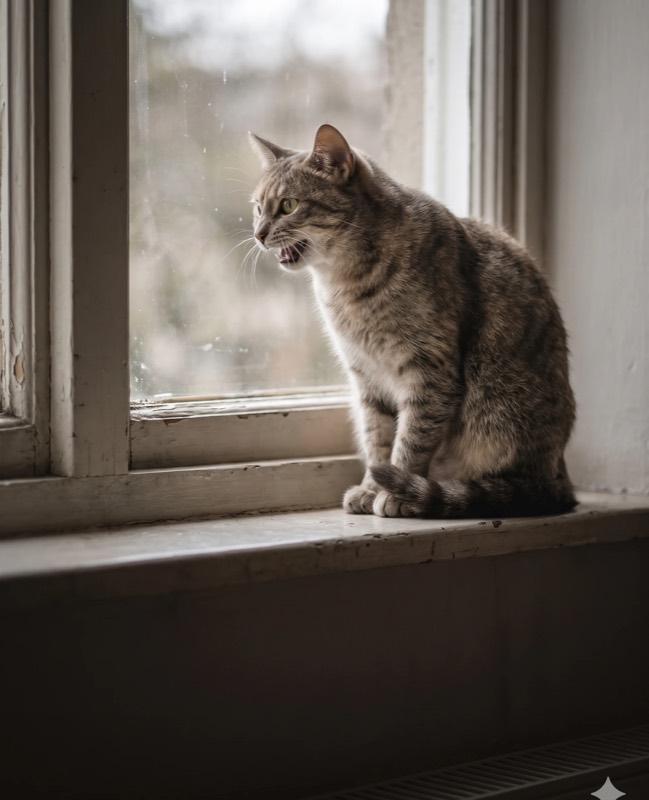
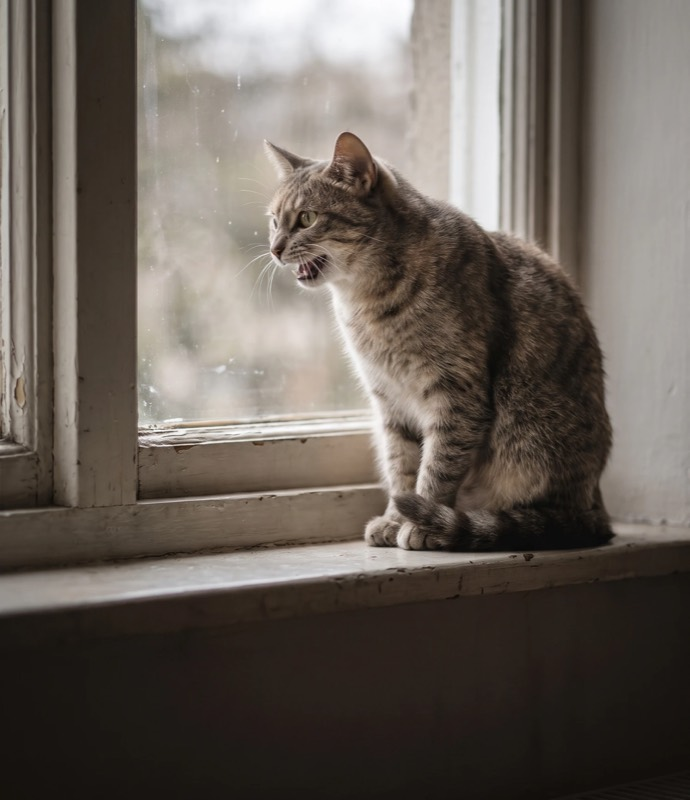
Trim the generator's watermark off every generated image
All seven images that came through the drop folder carried a four-pointed sparkle
burned into the bottom-right corner — the generator's own mark, added despite the
prompt asking for no watermarks. They are gone.

Handled in the pipeline rather than as a one-off, because every future batch from
that tool will have it: install_local.py now crops TRIM_BOTTOM (6%) off the bottom
of every generated file before downsampling. The strip is free — the prompt docs
already keep the subject in the upper two thirds and the lower third plain,
because the headword prints over it, so this takes a band the layout was going to
cover anyway.

Trimming unconditionally rather than detecting per image is deliberate. A
brightness threshold looked like the careful option and was wrong both ways: it
missed the mark on five of the seven images whose corner happened to be light,
and flagged two that were clean. The eye caught what it could not. A detector
that can be wrong is worse here than a crop that cannot.

Re-cropped from the 1493x1840 originals rather than the installed copies, so the
seven are now sharper than before — 690x800 where they were 649x800, since the
crop happens before the downsample instead of after it.

The three images pasted in directly are clean and were left alone.

diff --git a/tools/fetch_assets/install_local.py b/tools/fetch_assets/install_local.py
@@ -12,11 +12,24 @@ them its own way.
 
     python3 -I install_local.py pets ~/Downloads/pets-images "GPT Image"
 """
-import json, os, re, subprocess, sys, datetime
+import json, os, re, subprocess, sys, tempfile, datetime
 
 HERE = os.path.dirname(os.path.abspath(__file__))
 ROOT = os.path.abspath(os.path.join(HERE, "..", ".."))
 EXTS = (".webp", ".png", ".jpg", ".jpeg", ".heic", ".tif", ".tiff")
+
+# Generators stamp their own mark into the bottom-right corner. Measured on this
+# tool's output: about 25px tall at the very bottom edge of an 800px-high render,
+# so 6% clears it with roughly twice the margin it needs at any source size.
+#
+# Trimming the bottom costs nothing here on purpose: the prompt docs put the subject
+# in the upper two thirds and keep the lower third plain, because the headword prints
+# over it. So this takes the strip the layout was already going to cover.
+#
+# Applied to every generated file, clean or not — a per-image check is a detector that
+# can be wrong, and mine was: a brightness threshold missed the mark on five of seven
+# images whose corner happened to be light, and flagged two that were clean.
+TRIM_BOTTOM = 0.06
 
 def slug(term):
     return re.sub(r"[^a-z0-9]+", "-", term.lower()).strip("-")
@@ -48,14 +61,23 @@ def main():
             continue
         name = f"{book}-{s}"
         dest = os.path.join(out_dir, f"{name}.jpg")
+        src = os.path.join(folder, f)
+        # Crop first, downsample second: trimming after the resize would throw away
+        # detail we had and then crop what is left.
+        cropped = os.path.join(tempfile.gettempdir(), f"{name}-trim.png")
+        subprocess.run(["ffmpeg", "-hide_banner", "-loglevel", "error", "-y", "-i", src,
+                        "-vf", f"crop=iw:ih*{1 - TRIM_BOTTOM}:0:0", cropped],
+                       check=True, capture_output=True, timeout=180)
         # 800px long edge, q72 — the Picture Book's format, what check_assets enforces.
         subprocess.run(["sips", "-s", "format", "jpeg", "-s", "formatOptions", "72",
-                        "-Z", "800", os.path.join(folder, f), "--out", dest],
+                        "-Z", "800", cropped, "--out", dest],
                        check=True, capture_output=True, timeout=120)
+        os.remove(cropped)
         by_slug[s]["image"] = name
         record[by_slug[s]["term"]] = {"file": f"{name}.jpg", "model": model,
                                       "made": datetime.date.today().isoformat(),
-                                      "source_file": f}
+                                      "source_file": f,
+                                      "trimmed": f"{int(TRIM_BOTTOM*100)}% off the bottom"}
         done += 1
         print(f"  {by_slug[s]['term']:20} {os.path.getsize(dest)/1e3:6.0f} KB  {name}.jpg")
 

diff --git a/tools/fetch_assets/README.md b/tools/fetch_assets/README.md
@@ -35,6 +35,17 @@ sh ../check_assets.sh
   (`bark` matched a 1945 newsreel — bark as in ship). `api()` now backs off, and a
   run that had any failure says so and refuses to call its number a measurement.
 
+- **Generators stamp their own watermark.** This one puts a four-pointed sparkle in
+  the bottom-right corner of every render, whatever the prompt says. `install_local.py`
+  trims `TRIM_BOTTOM` (6%) off the bottom of every generated file before downsampling,
+  which clears it with about twice the margin it needs. The strip costs nothing: the
+  prompt docs already keep the subject in the upper two thirds because the headword
+  prints over the bottom.
+- **Do not detect the watermark per image.** A brightness threshold looked like the
+  careful option and was wrong in both directions — it missed the mark on five of seven
+  images whose corner happened to be light, and flagged two that were clean. Trimming
+  unconditionally is both simpler and correct.
+
 ## Knobs
 
 - `FREE_CATEGORIES` — Commons licence categories searched. Adding one costs a round

diff --git a/Docs/06_Misc/PETS_IMAGE_PROMPTS.md b/Docs/06_Misc/PETS_IMAGE_PROMPTS.md
@@ -56,6 +56,7 @@ shut and its posture is neutral, the photograph has failed.
 | Minimum size | 1024 × 1365 |
 | Format to save | JPEG or PNG — I downsample to 800px long edge, q72 |
 | File naming | exactly as the table below |
+| Bottom 6% | **discarded on install** — it is where the generator stamps its watermark. Keep nothing there. |
 
 ## 3. The 33 scene lines
 

diff --git a/Docs/06_Misc/EMOTIONS_IMAGE_PROMPTS.md b/Docs/06_Misc/EMOTIONS_IMAGE_PROMPTS.md
@@ -62,6 +62,7 @@ in the eyes, the jaw, the shoulders, the hands.
 | Minimum size | 1024 × 1365 |
 | Save as | JPEG, PNG or WebP — I downsample to 800px long edge, q72 |
 | File naming | exactly as the table below |
+| Bottom 6% | **discarded on install** — it is where the generator stamps its watermark. Keep nothing there. |
 
 ## 3. The 100 scene lines
 
